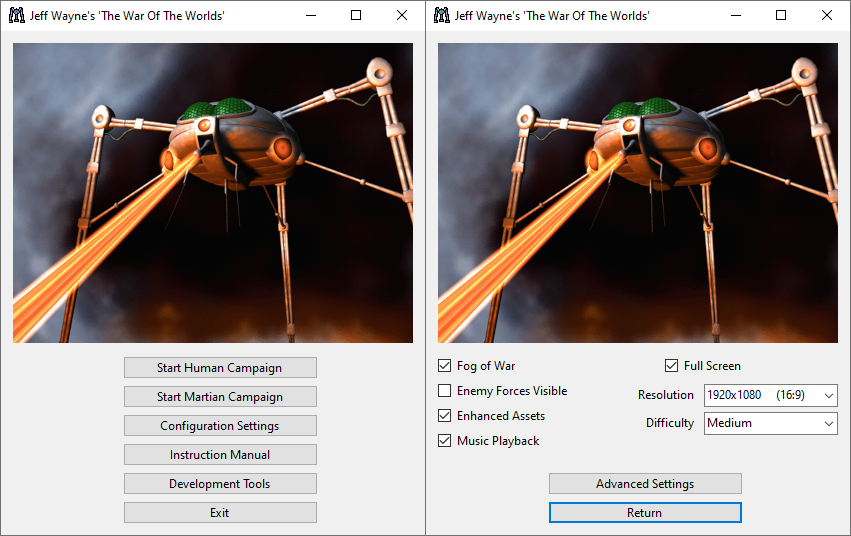
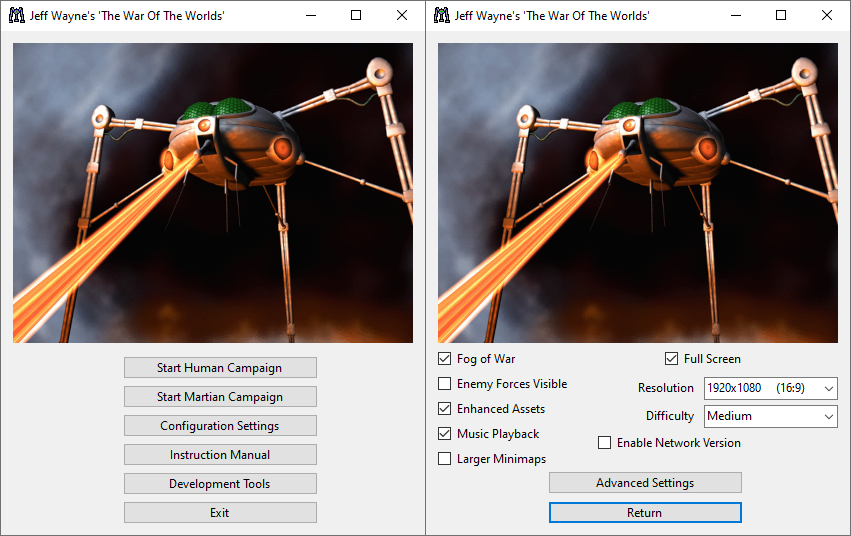
larger minimaps launcher checkbox

Changed region(s): [[0.7027, 0.6567, 0.9777, 0.8358], [0.5194, 0.6567, 0.6722, 0.8657], [0.6416, 0.8657, 0.8555, 0.9254]]

diff --git a/WoWLauncher/Form1.cs b/WoWLauncher/Form1.cs
@@ -184,7 +184,7 @@ namespace WoWLauncher
                         // Calculate Aspect Ratio dynamically for the label
                         string ratio = GetAspectRatio(w, h);
                         string space = "    ";
-                        if(rawRes.Length > 8)
+                        if (rawRes.Length > 8)
                         {
                             int length = rawRes.Length - 8;
                             for (int i = 0; i < length; i++)
@@ -307,13 +307,16 @@ namespace WoWLauncher
             button6.Text = Program.Interface["tools"];
             //button7.Text = Program.Interface["keyboard"];
             button8.Text = Program.Interface["instruction_button"];
-            if(Program.CurrentLanguage == "German" || Program.CurrentLanguage == "Spanish") { button8.Enabled = false; }
+            if (Program.CurrentLanguage == "German" || Program.CurrentLanguage == "Spanish") { button8.Enabled = false; }
             checkBox5.AccessibleDescription = Program.Interface["music_playback_description"];
             checkBox5.Text = Program.Interface["music_playback"];
             checkBox6.AccessibleDescription = Program.Interface["enhanced_assets_description"];
             checkBox6.Text = Program.Interface["enhanced_assets"];
             checkBox7.AccessibleDescription = Program.Interface["enemy_visible_description"];
             checkBox7.Text = Program.Interface["enemy_visible"];
+            // larger minimaps
+            checkBox4.AccessibleDescription = Program.Interface["larger_minimaps_tooltip"];
+            checkBox4.Text = Program.Interface["larger_minimaps"];
             //
             Text = Program.Interface["game_name"];
         }
@@ -373,10 +376,15 @@ namespace WoWLauncher
                 screenKey.SetValue("BPP", 16, RegistryValueKind.DWord);
                 MessageBox.Show(Program.Interface["colour"]);
             }
+            if(new FileInfo("MAPS\\MAPS.WoW").Length == 117692391)
+            {
+                checkBox4.Checked = true;
+            }
             // add event handlers here for the checkboxes and comboboxes to prevent them firing when the form is loaded
             checkBox1.CheckedChanged += checkBox1_CheckedChanged!;
             checkBox2.CheckedChanged += checkBox2_CheckedChanged!;
             checkBox3.CheckedChanged += checkBox3_CheckedChanged!;
+            checkBox4.CheckedChanged += checkBox4_CheckedChanged!;
             comboBox2.SelectedIndexChanged += comboBox2_SelectedIndexChanged!;
             comboBox4.SelectedIndexChanged += comboBox4_SelectedIndexChanged!;
             checkBox5.CheckedChanged += checkBox5_CheckedChanged!;
@@ -480,9 +488,10 @@ namespace WoWLauncher
             button3.Visible = false;
             config = true;
             button4.Text = Program.Interface["return"];
-            //checkBox1.Visible = true;     // network enabled
+            checkBox1.Visible = true;   // network enabled
             checkBox2.Visible = true;
             checkBox3.Visible = true;
+            checkBox4.Visible = true;   // larger minimaps
             checkBox5.Visible = true;
             checkBox6.Visible = true;
             checkBox7.Visible = true;
@@ -505,9 +514,10 @@ namespace WoWLauncher
                 button3.Visible = true;
                 config = false;
                 button4.Text = Program.Interface["exit"];
-                //checkBox1.Visible = false;    // network enabled
+                checkBox1.Visible = false;  // network enabled
                 checkBox2.Visible = false;
                 checkBox3.Visible = false;
+                checkBox4.Visible = false;  // larger minimaps
                 checkBox5.Visible = false;
                 checkBox6.Visible = false;
                 checkBox7.Visible = false;
@@ -578,7 +588,7 @@ namespace WoWLauncher
         }
         private void checkBox2_CheckedChanged(object sender, EventArgs e)
         {
-            if(checkBox2.Checked)
+            if (checkBox2.Checked)
             {
                 File.Move("ddraw-off.dll", "ddraw.dll");
                 mainKey.SetValue("Full Screen", "1");
@@ -655,7 +665,7 @@ namespace WoWLauncher
             }
             // larger resolution warmap files
             string[] resolutionFiles = new string[] { "HWM.SPR", "HWMHI.SPR", "MWM.SPR", "MWMHI.SPR" };
-            if (dimensions[0] == "1600" || dimensions[0] == "1680" || dimensions[0] == "1920" )
+            if (dimensions[0] == "1600" || dimensions[0] == "1680" || dimensions[0] == "1920")
             {
                 if (File.Exists("DAT\\MWM.SPR") && !File.Exists("DAT\\NORM-MWM.SPR")) // high resolutions check
                 {
@@ -776,7 +786,7 @@ namespace WoWLauncher
             checkBox1.CheckedChanged -= checkBox1_CheckedChanged!;
             checkBox2.CheckedChanged -= checkBox2_CheckedChanged!;
             checkBox3.CheckedChanged -= checkBox3_CheckedChanged!;
-            //checkBox4.CheckedChanged -= checkBox4_CheckedChanged!;
+            checkBox4.CheckedChanged -= checkBox4_CheckedChanged!;
             checkBox5.CheckedChanged -= checkBox5_CheckedChanged!;
             checkBox6.CheckedChanged -= checkBox6_CheckedChanged!;
             checkBox7.CheckedChanged -= checkBox7_CheckedChanged!;
@@ -823,6 +833,28 @@ namespace WoWLauncher
             MessageBox.Show(Program.Interface["instruction_readme"]);
             ProcessStartInfo psi = new ProcessStartInfo { FileName = Program.Interface["instruction_location"], UseShellExecute = true };
             Process.Start(psi);
+        }
+        // larger maps checkbox
+        private void checkBox4_CheckedChanged(object sender, EventArgs e)
+        {
+            //regular 116160871 bytes
+            //larger 117692391
+            switch (new FileInfo("MAPS\\MAPS.WoW").Length)
+            {
+                case 116160871: RenameRegular(); break;
+                case 117692391: RenameLarger(); break;
+                default: MessageBox.Show("MAPS.WoW has an unexpected file size! Restoring the original files via the launcher may be required.", "Map Swap Error", MessageBoxButtons.OK, MessageBoxIcon.Warning); break;
+            }
+        }
+        private void RenameRegular()
+        {
+            File.Move("MAPS\\MAPS.WoW", "MAPS\\MAPS-Regular.WoW");
+            File.Move("MAPS\\MAPS-Larger.WoW", "MAPS\\MAPS.WoW");
+        }
+        private void RenameLarger()
+        {
+            File.Move("MAPS\\MAPS.WoW", "MAPS\\MAPS-Larger.WoW");
+            File.Move("MAPS\\MAPS-Regular.WoW", "MAPS\\MAPS.WoW");
         }
     }
 }

diff --git a/WoWLauncher/Form1.Designer.cs b/WoWLauncher/Form1.Designer.cs
@@ -48,6 +48,7 @@
             checkBox6 = new CheckBox();
             checkBox7 = new CheckBox();
             button8 = new Button();
+            checkBox4 = new CheckBox();
             ((System.ComponentModel.ISupportInitialize)pictureBox1).BeginInit();
             SuspendLayout();
             // 
@@ -105,18 +106,19 @@
             // 
             checkBox1.AccessibleDescription = "Enable or disable multiplayer. ( This option messes with single player resume and save campaign options, careful! )";
             checkBox1.AutoSize = true;
-            checkBox1.Location = new Point(172, 410);
+            checkBox1.Location = new Point(172, 403);
             checkBox1.Name = "checkBox1";
             checkBox1.Size = new Size(150, 19);
             checkBox1.TabIndex = 5;
             checkBox1.Text = "Enable Network Version";
             checkBox1.UseVisualStyleBackColor = true;
+            checkBox1.Visible = false;
             // 
             // checkBox2
             // 
             checkBox2.AccessibleDescription = "Enable or disable fullscreen. Note : Alt-Tabbing crashes the game when in fullscreen mode.";
             checkBox2.AutoSize = true;
-            checkBox2.Location = new Point(239, 326);
+            checkBox2.Location = new Point(239, 319);
             checkBox2.Name = "checkBox2";
             checkBox2.Size = new Size(83, 19);
             checkBox2.TabIndex = 6;
@@ -128,7 +130,7 @@
             // 
             comboBox2.AccessibleDescription = "The resolution for the game.";
             comboBox2.FormattingEnabled = true;
-            comboBox2.Location = new Point(278, 353);
+            comboBox2.Location = new Point(278, 346);
             comboBox2.Name = "comboBox2";
             comboBox2.Size = new Size(134, 23);
             comboBox2.TabIndex = 9;
@@ -136,7 +138,7 @@
             // 
             // label2
             // 
-            label2.Location = new Point(172, 356);
+            label2.Location = new Point(172, 349);
             label2.Name = "label2";
             label2.Size = new Size(100, 15);
             label2.TabIndex = 10;
@@ -147,7 +149,7 @@
             // 
             comboBox4.AccessibleDescription = "Difficulty settings. (Medium is the default)";
             comboBox4.FormattingEnabled = true;
-            comboBox4.Location = new Point(278, 381);
+            comboBox4.Location = new Point(278, 374);
             comboBox4.Name = "comboBox4";
             comboBox4.Size = new Size(134, 23);
             comboBox4.TabIndex = 13;
@@ -155,7 +157,7 @@
             // 
             // label4
             // 
-            label4.Location = new Point(172, 384);
+            label4.Location = new Point(172, 377);
             label4.Name = "label4";
             label4.Size = new Size(100, 15);
             label4.TabIndex = 14;
@@ -166,7 +168,7 @@
             // 
             checkBox3.AccessibleDescription = "Enable or disable fog of war.";
             checkBox3.AutoSize = true;
-            checkBox3.Location = new Point(12, 326);
+            checkBox3.Location = new Point(12, 319);
             checkBox3.Name = "checkBox3";
             checkBox3.Size = new Size(84, 19);
             checkBox3.TabIndex = 15;
@@ -176,7 +178,7 @@
             // 
             // button5
             // 
-            button5.Location = new Point(122, 441);
+            button5.Location = new Point(122, 440);
             button5.Name = "button5";
             button5.Size = new Size(195, 23);
             button5.TabIndex = 16;
@@ -211,7 +213,7 @@
             // 
             checkBox5.AccessibleDescription = "Enabling this will allow the music to continue playing when the window loses focus, if not in fullscreen mode.";
             checkBox5.AutoSize = true;
-            checkBox5.Location = new Point(12, 401);
+            checkBox5.Location = new Point(12, 394);
             checkBox5.Name = "checkBox5";
             checkBox5.Size = new Size(108, 19);
             checkBox5.TabIndex = 20;
@@ -223,7 +225,7 @@
             // 
             checkBox6.AccessibleDescription = "This setting enables the enhanced user interface assets. ( This adds a little more colour depth to the interface. )";
             checkBox6.AutoSize = true;
-            checkBox6.Location = new Point(12, 376);
+            checkBox6.Location = new Point(12, 369);
             checkBox6.Name = "checkBox6";
             checkBox6.Size = new Size(114, 19);
             checkBox6.TabIndex = 21;
@@ -235,7 +237,7 @@
             // 
             checkBox7.AccessibleDescription = "This toggles whether or not enemy forces are visible on the warmap.";
             checkBox7.AutoSize = true;
-            checkBox7.Location = new Point(12, 351);
+            checkBox7.Location = new Point(12, 344);
             checkBox7.Name = "checkBox7";
             checkBox7.Size = new Size(136, 19);
             checkBox7.TabIndex = 22;
@@ -253,11 +255,24 @@
             button8.UseVisualStyleBackColor = true;
             button8.Click += button8_Click;
             // 
+            // checkBox4
+            // 
+            checkBox4.AccessibleDescription = "Double the size of the minimap in the battle map. (3D View)";
+            checkBox4.AutoSize = true;
+            checkBox4.Location = new Point(12, 419);
+            checkBox4.Name = "checkBox4";
+            checkBox4.Size = new Size(115, 19);
+            checkBox4.TabIndex = 24;
+            checkBox4.Text = "Larger Minimaps";
+            checkBox4.UseVisualStyleBackColor = true;
+            checkBox4.Visible = false;
+            // 
             // Form1
             // 
             AutoScaleDimensions = new SizeF(7F, 15F);
             AutoScaleMode = AutoScaleMode.Font;
             ClientSize = new Size(424, 504);
+            Controls.Add(checkBox4);
             Controls.Add(button8);
             Controls.Add(checkBox1);
             Controls.Add(checkBox7);
@@ -307,5 +322,6 @@
         private CheckBox checkBox6;
         private CheckBox checkBox7;
         private Button button8;
+        private CheckBox checkBox4;
     }
 }
